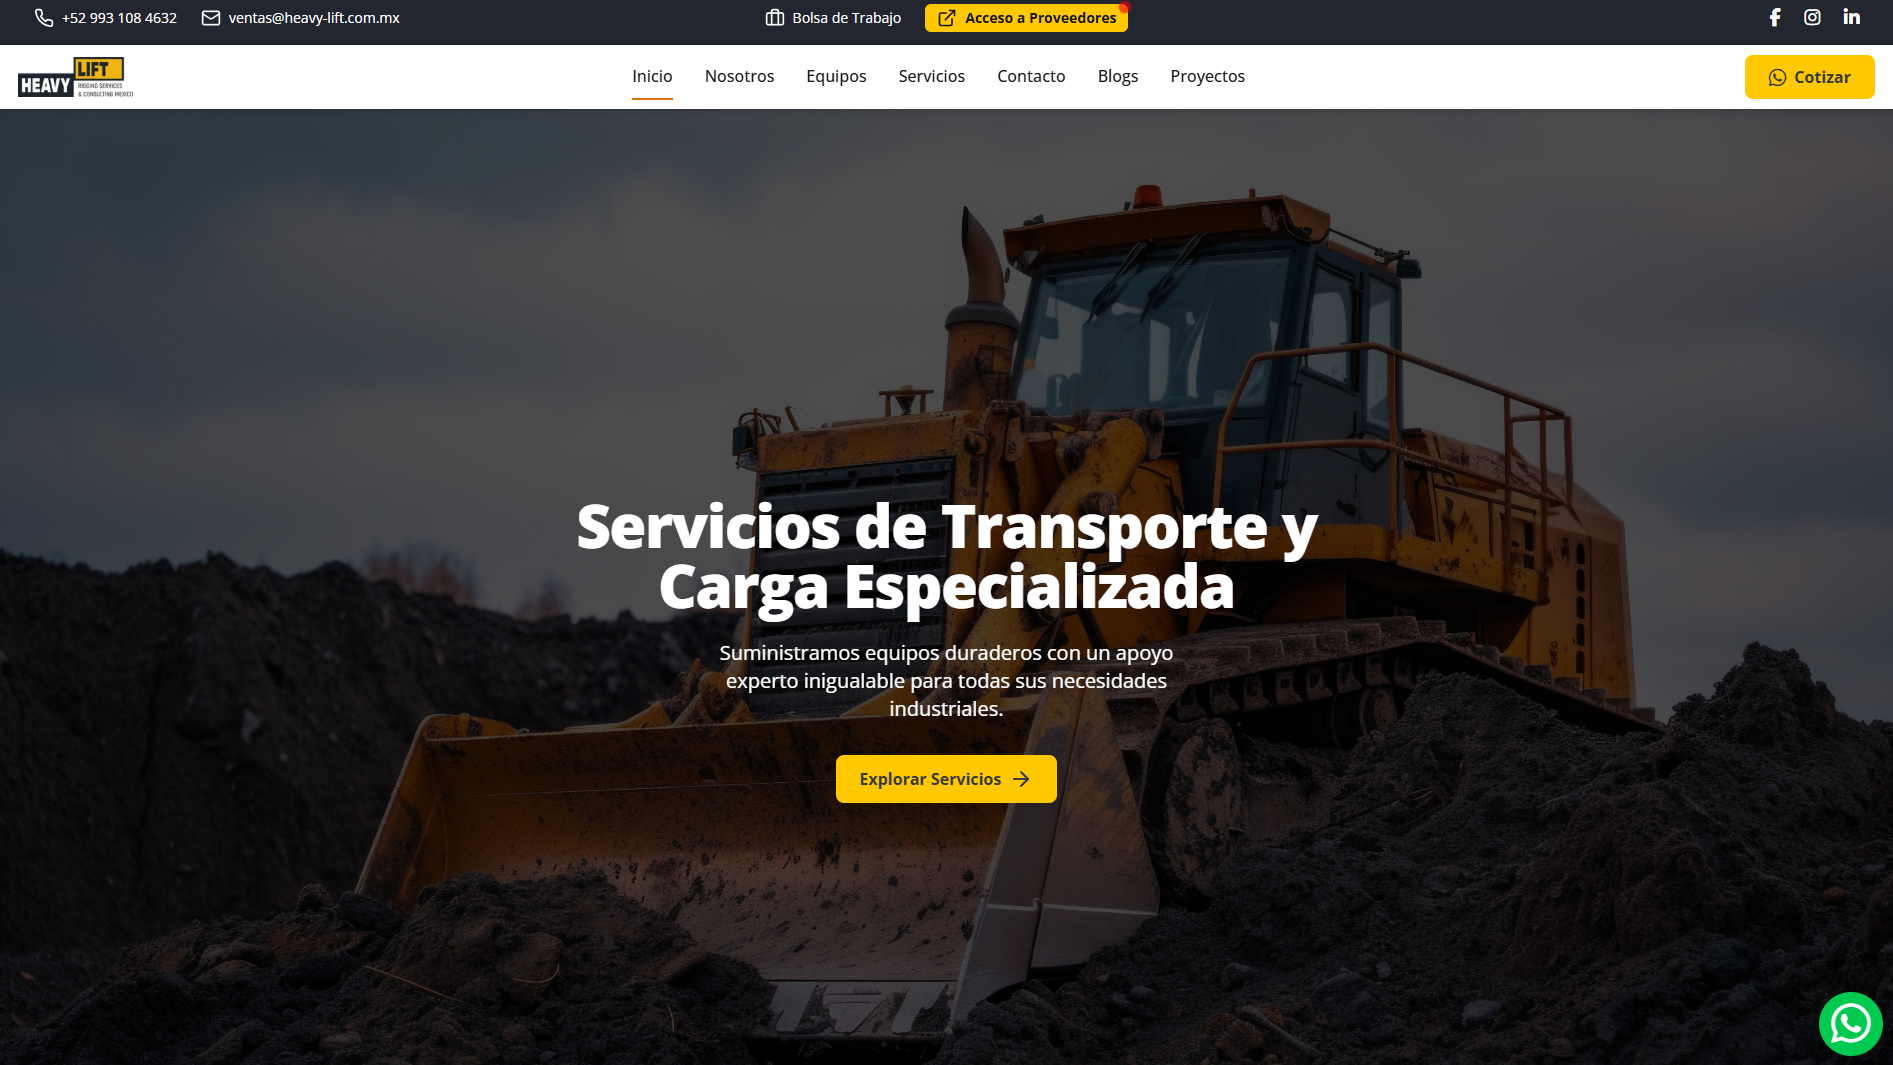
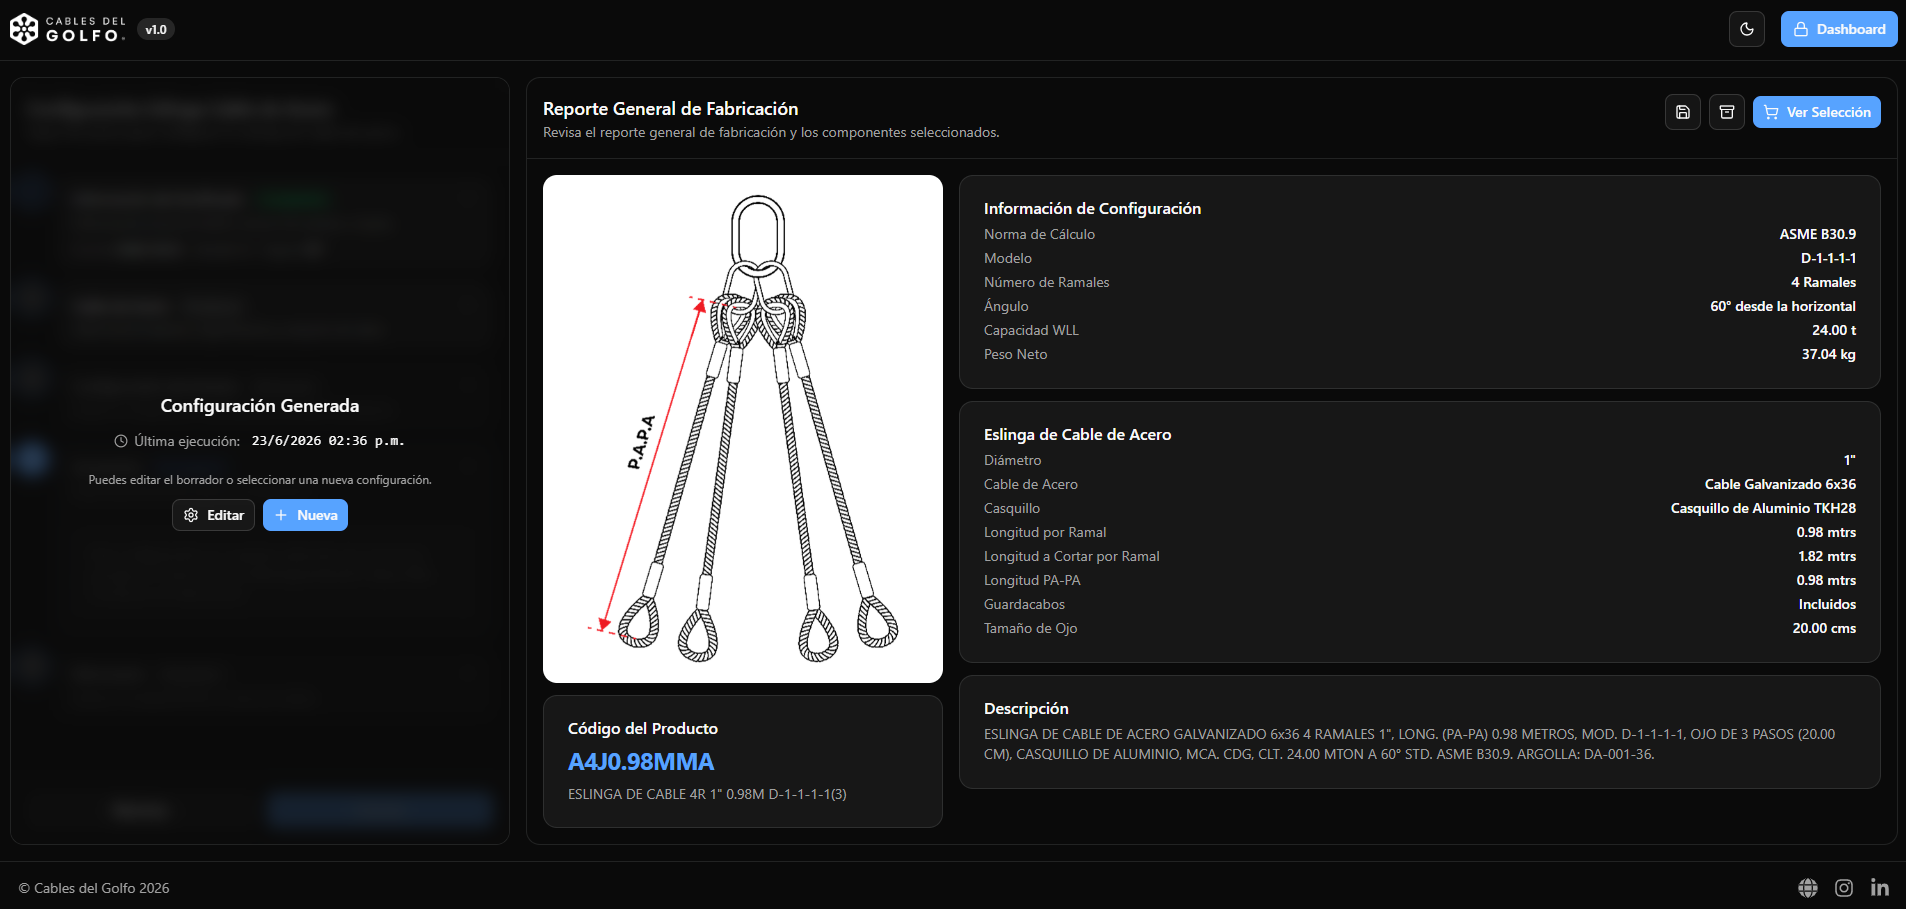
[UPDATE] [Projects] Actualizando la seccion de proyectos

diff --git a/src/i18n/pages.ts b/src/i18n/pages.ts
@@ -1,4 +1,5 @@
 import p1 from "@/assets/project-1.png";
+import p2 from "@/assets/project-2.png";
 import {
   Bug,
   Code2,
@@ -145,13 +146,22 @@ export const pages = {
       items: [
         {
           image: p1,
+          title: "CCG — Calculadora CPQ Industrial",
+          description:
+            "Aplicación web para configurar, calcular y cotizar eslingas y componentes de izaje. Permite generar configuraciones técnicas, calcular costos y producir resúmenes comerciales para cotizar.",
+          tech: ["React", "TypeScript", "FastAPI", "Python", "PostgreSQL", "Tailwind CSS", "Docker"],
+          live: "https://calculadora.cablesdelgolfo.com",
+          repo: "#",
+        },
+        {
+          image: p2,
           title: "Heavy-Lift — Landing Page",
           description:
             "Sitio web comercial para la empresa Heavy-Lift, enfocado en presentar servicios, generar confianza y facilitar solicitudes de cotización desde cualquier dispositivo.",
           tech: ["Astro", "TypeScript", "Tailwind CSS", "SEO", "Netlify"],
           live: "https://heavy-lift.com.mx",
           repo: "#",
-        },
+        },        
       ],
     },
     resume: {
@@ -331,13 +341,22 @@ export const pages = {
       items: [
         {
           image: p1,
+          title: "CCG — Industrial CPQ Calculator",
+          description:
+            "Web application for configuring, calculating, and quoting slings and lifting components. Allows generating technical configurations, calculating costs, and producing commercial summaries for quoting.",
+          tech: ["React", "TypeScript", "FastAPI", "Python", "PostgreSQL", "Tailwind CSS", "Docker"],
+          live: "https://calculadora.cablesdelgolfo.com",
+          repo: "#",
+        },
+        {
+          image: p2,
           title: "Heavy-Lift — Landing Page",
           description:
             "Commercial website for Heavy-Lift, focused on presenting services, building trust, and making quote requests easy from any device.",
           tech: ["Astro", "TypeScript", "Tailwind CSS", "SEO", "Netlify"],
           live: "https://heavy-lift.com.mx",
           repo: "#",
-        },
+        },      
       ],
     },
     resume: {

diff --git a/src/data/projects.ts b/src/data/projects.ts
@@ -1,13 +1,23 @@
 import p1 from "../assets/project-1.png";
+import p2 from "../assets/project-2.png";
 
 export const projects = [
   {
     image: p1,
+    title: "CCG — Calculadora CPQ Industrial",
+    description:
+      "Aplicación web para configurar, calcular y cotizar eslingas y componentes de izaje. Permite generar configuraciones técnicas, calcular costos y producir resúmenes comerciales para cotizar.",
+    tech: ["React", "TypeScript", "FastAPI", "Python", "PostgreSQL", "Tailwind CSS", "Docker"],
+    live: "https://calculadora.cablesdelgolfo.com",
+    repo: "#",
+  },
+  {
+    image: p2,
     title: "Heavy-Lift — Landing Page",
-    description: 
-    "Sitio web comercial para la empresa Heavy-Lift, enfocado en presentar servicios, generar confianza y facilitar solicitudes de cotización desde cualquier dispositivo.",
+    description:
+      "Sitio web comercial para la empresa Heavy-Lift, enfocado en presentar servicios, generar confianza y facilitar solicitudes de cotización desde cualquier dispositivo.",
     tech: ["Astro", "TypeScript", "Tailwind CSS", "SEO", "Netlify"],
     live: "https://heavy-lift.com.mx",
     repo: "#",
-  }
+  },   
 ]
